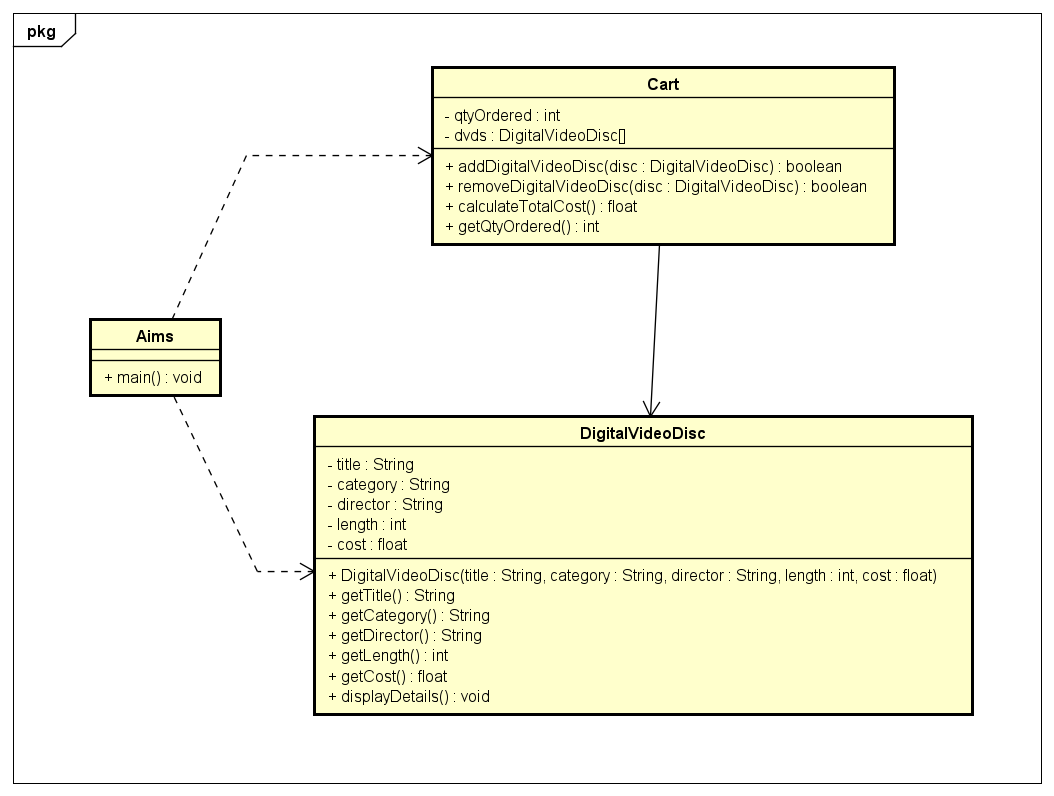
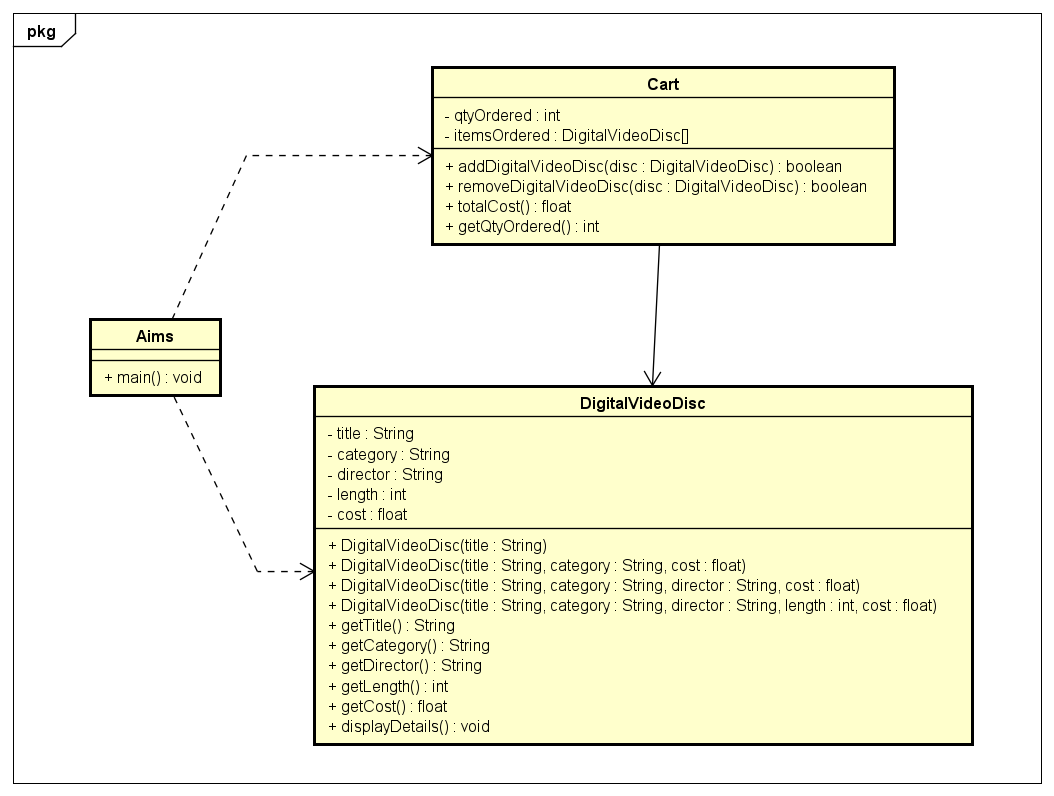
Complete Assignment 9 and update  "Design" file

diff --git a/Lab02/AimsProject/Cart.java b/Lab02/AimsProject/Cart.java
@@ -1,0 +1,46 @@
+public class Cart {
+
+    public static final int MAX_NUMBERS_ORDERED = 20;
+    private DigitalVideoDisc itemsOrdered[] = new DigitalVideoDisc[MAX_NUMBERS_ORDERED];
+    private int qtyOrdered = 0;
+    
+    public boolean addDigitalVideoDisc(DigitalVideoDisc disc) {
+        if (qtyOrdered < MAX_NUMBERS_ORDERED) {
+            itemsOrdered[qtyOrdered] = disc;
+            qtyOrdered++;
+            System.out.println("The disc has been added.");
+            return true;
+        }
+        else {
+            System.out.println("The cart is almost full.");
+            return false;
+        }
+    }
+
+    public boolean removeDigitalVideoDisc(DigitalVideoDisc disc) {
+        for (int i = 0; i < qtyOrdered; i++) {
+            if (itemsOrdered[i].getTitle().equals(disc.getTitle())) {
+            for (int j = i + 1; j < qtyOrdered; j++) {
+                itemsOrdered[j-1] = itemsOrdered[j];
+            }
+            qtyOrdered--;
+            System.out.println("The disc " + disc.getTitle() + " has been removed.");
+            return true;
+            }
+        }
+        System.out.println("The disc " + disc.getTitle() + " is not in the cart.");
+        return false;
+    }
+    
+    public float totalCost() {
+        float total = 0;
+        for (DigitalVideoDisc item : itemsOrdered) {
+            total += item.getCost();
+        }
+        return total;
+    }
+
+    public int getQtyOrdered() {
+        return qtyOrdered;
+    }
+}

diff --git a/Lab02/AimsProject/DigitalVideoDisc.java b/Lab02/AimsProject/DigitalVideoDisc.java
@@ -47,7 +47,7 @@ public class DigitalVideoDisc {
         return length;
     }
 
-    public double getCost() {
+    public float getCost() {
         return cost;
     }
 
